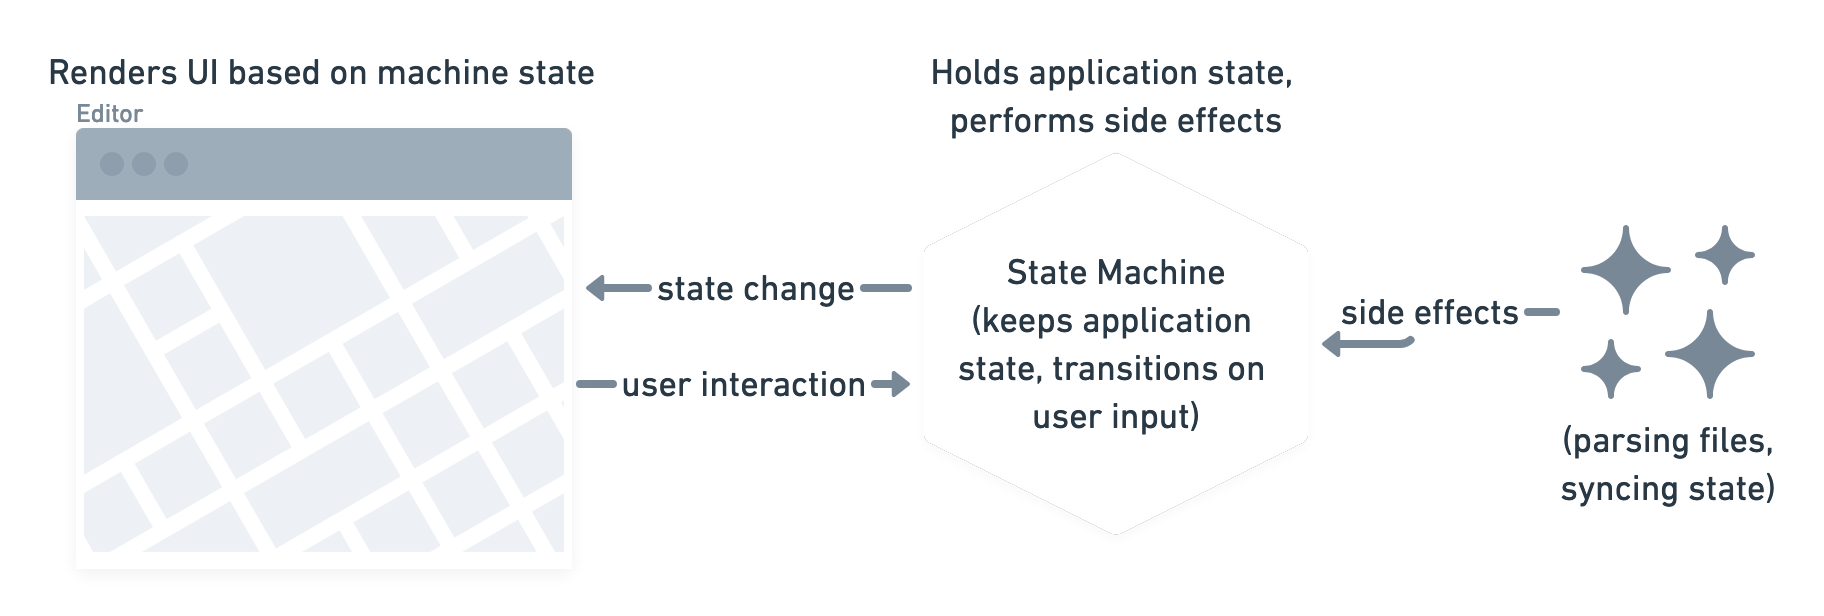
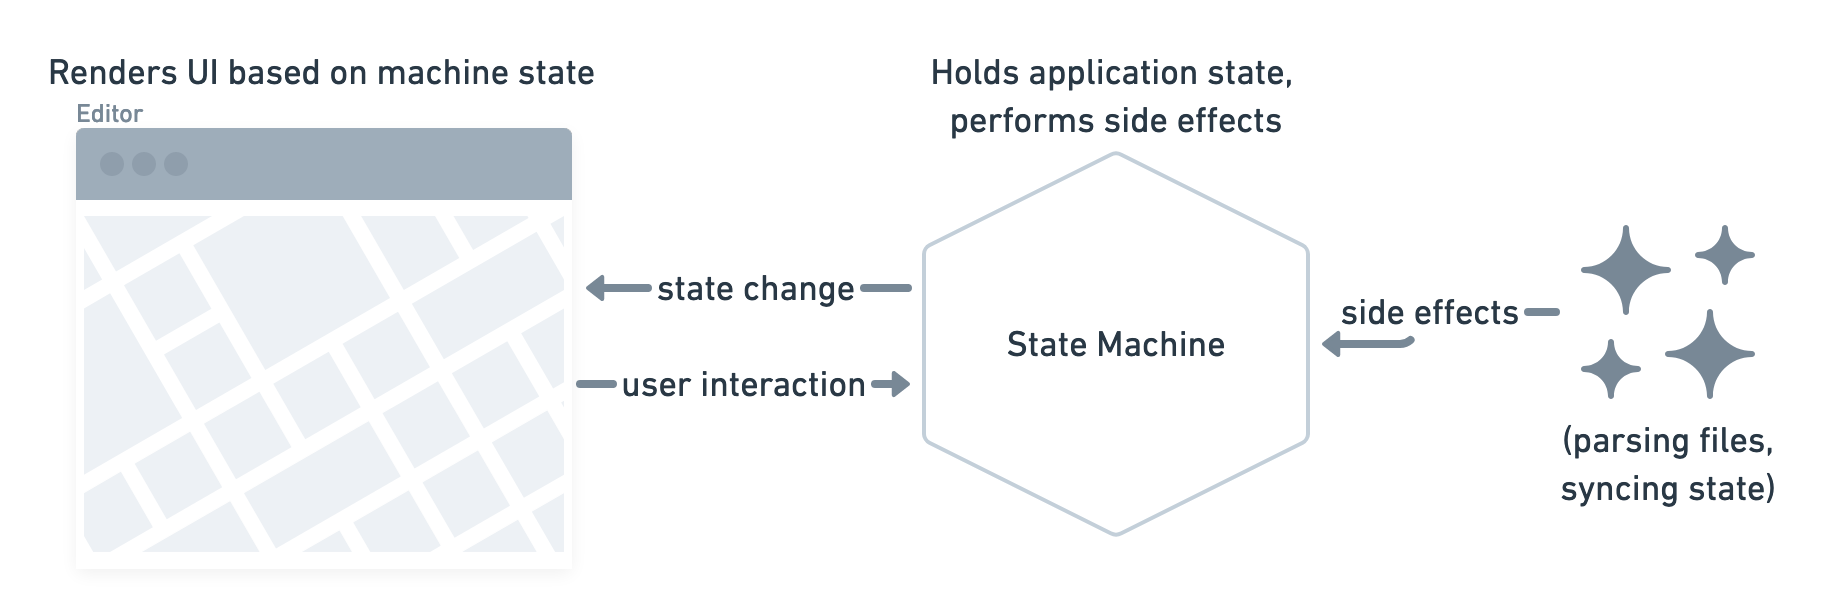
finish first draft of gpx editor post

diff --git a/content/blog/2021-11-11-gps-editor-xstate-lit-html/index.md b/content/blog/2021-11-11-gps-editor-xstate-lit-html/index.md
@@ -9,6 +9,7 @@ image: ./color-splash.jpg
 ---
 
 ![GPX editor screenshot](./gpx-editor-screenshot.png)
+<small><a href="https://janmonschke.com/gpx-editor" target="_blank">(try out the editor)</a></small>
 
 When [I go hiking](https://aweekinthewoods.com/france/auvergne/), I am recording the trek with this battery efficient [GPS Logger app](https://gpslogger.app/) 🏕. Battery efficiency is important because there's often no way to charge my phone on a multi-day hike. The app let's me define custom intervals in which it records a GPS point which I usually set to somewhere betwwen 45 seconds and a minute. That resolution is accurate enough for recordings of walks and it does not add too much strain on my battery.
 
@@ -16,12 +17,63 @@ So the app is requesting a GPS fix at certain points in an interval and disables
 
 For that reason I built a GPX editor which allows me to adjust the recorded points and then strip out the elevation recording. The cool thing about komoot is that they add the elevation info to your route if you don't provide any. The info is based on topology data that is a more accurate than my phone's recording.
 
-My usual approach to building a small aoo like that would be to spin up [create-react-app](https://create-react-app.dev/) and code away. In the case of this small editor it did feel like overkill though and I was also interested in trying out a new kind of app setup. Due to my previous experience with [XState](https://xstate.js.org/docs/) I wanted to use it to drive the busness logic of the editor. For the rendering I used [list-html](https://lit-html.polymer-project.org/guide) which is tiny and super easy-to-use (when you're already familiar with sth. like jsx). The last new building-block of my setup was [parcel](https://parceljs.org/). Previously I had pretty much exclusively used [webpack](https://webpack.js.org/) and I was in the mood for trying out something new. I was also curious to see if parcel really required zero configuration (spoiler: It really did not need any configuration 🎉).
+My usual approach to building a small aoo like that would be to spin up [create-react-app](https://create-react-app.dev/) and code away. In the case of this small editor it did feel like overkill though and I was also interested in trying out a new kind of app setup. Due to my previous experience with [XState](https://xstate.js.org/docs/) I wanted to use it to drive the busness logic of the editor. For the rendering I used [list-html](https://lit-html.polymer-project.org/guide) which is tiny and super easy-to-use (when you're already familiar with sth. like jsx).
+
+The last new building-block of my setup was [parcel](https://parceljs.org/). Previously I had pretty much exclusively used [webpack](https://webpack.js.org/) and I was in the mood for trying out something new. I was also curious to see if parcel really required zero configuration (spoiler: It really did not need any configuration 🎉).
 
 ![GPX editor diagram](./gpx-editor-diagram.png)
 
+I tried to visualize the application architecture in the diagram above. At the core of it is the state machine. It holds all of the application's state, it transistions based on user interaction and performs side-effects when necessary. Side-effects may also cause transitions e.g. in case of a file parsing error.
+
+The user interface reacts to the state machine's transitions. Depending on the current state, it will render the appropriate component. It also acts as the glue-code between user interaction and the machine:
+
+```ts
+editor.onTransition((state) => {
+  switch (state.value) {
+    case "choose-gpx":
+      const onFileSelected = (file) => machine.send({ type: "FILE_SELECTED", file });
+
+      return render(ChooseFile({ onFileSelected }), contentElement);
+    case "export-gpx":
+      return render(Export(), contentElement);
+  }
+})
+```
+
+For a given state of the machine, in this case `choose-gpx` and `export-gpx`, the application renders a different component. The application also defines callbacks for the components. These callbacks are executed on user interaction and they result in state transitions (and their side-effects e.g. file parsing).
+
+```ts
+type Props = {
+  onFileSelected: (file: File) => void;
+};
+export const ChooseFile = (props: Props) =>
+html`
+  <form>
+    <label>
+      <input
+        type="file"
+        @change=${(event: Event) =>
+          props.onFileSelected(
+            (event.currentTarget as HTMLInputElement).files[0]
+          )}
+      />
+      Select a .gpx file
+    </label>
+  </form>`;
+```
+
+The `ChooseFile` component renders a file input and calls the `onFileSelected` callback when a file gets selected. This is the same callback as we saw before in the application file. When the callback is invoked, the event is causing a transition of the state machine. Which in turn will then result in the render of a different component. Bonus: I like how this component almost looks like a React component 🎉.
+
 ![GPX editor state machine](./gpx-editor-state-machine.png)
 
-- app logic diagram
+In the diagram above you can see all of the state machine's states, it's transitions and side effects. The XState visualizer at [stately.ai/viz](https://stately.ai/viz) is just super amazing. You paste the machine's code and it will render this interactive diagram. It let's you play around with the transitions, send custom events and to save it to your account in case you want to show it to someone else. Pretty much every time I'm writing a state machine, I start inside this visualizer. It makes prototyping a workflow such a blast.
+
+Overall I'm very happy with the current setup. I feel productive, the state machine adds a great structure and lit-html is a great renderer for small aplications like this one. I will definitely reuse this stack in other applications. If you are insterested in trying out the editor yourself, you can find it on https://janmonschke.com/gpx-editor. The code is up on GitHub at [janmonschke/gpx-editor](https://github.com/janmonschke/gpx-editor).
+
+### PS
+
+- Huge shoutout to [Leaflet](https://leafletjs.com/) an excellent map renderer and [spectre.css](https://picturepan2.github.io/spectre/) a great and light CSS framework
+
+
 - state machine diagram
 - deploy to github pages
